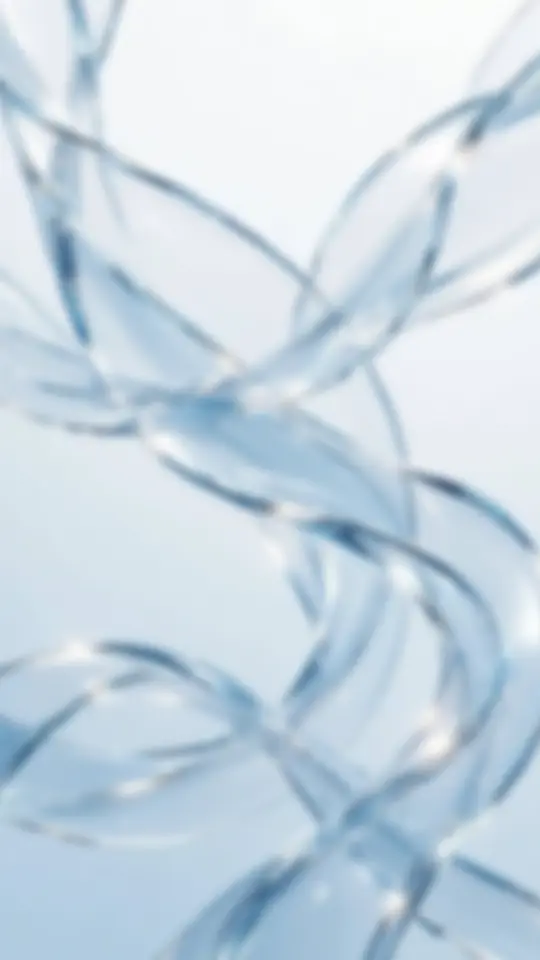
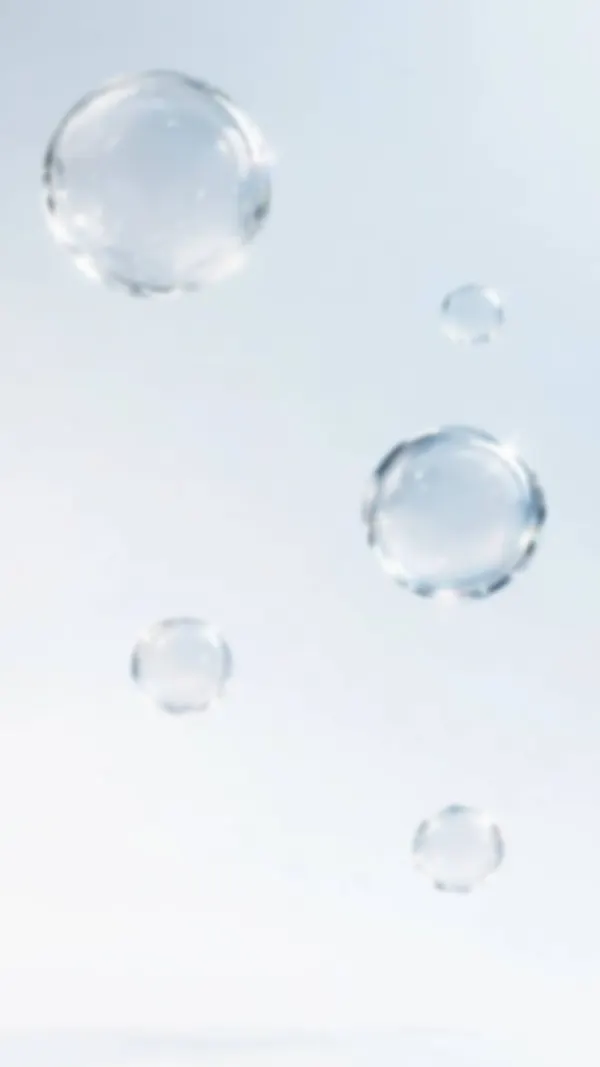
Fondos de burbujas de cristal (claro y oscuro), con desenfoque leve
Reemplaza los fondos anteriores por las imágenes de burbujas provistas,
levemente desenfocadas y reducidas (6-8 KB). Velo más liviano porque los
fondos son más calmados; en oscuro las tarjetas son algo más opacas.

Claude-Session: https://claude.ai/code/session_01QAkKZAx5AMTorTfvBu3av9

diff --git a/index.html b/index.html
@@ -529,8 +529,9 @@ input[type=checkbox]:checked::after{transform:translateX(20px)}
 
 /* ═══════════ Fondos de cristal (imagen desenfocada + velo para que el texto se lea) ═══════════ */
 body,:root[data-theme="light"] body{background:transparent!important}
-:root[data-theme="light"]::before{background:linear-gradient(180deg,rgba(247,251,255,.34),rgba(240,247,253,.22)),url(icons/bg-claro.webp) center/cover no-repeat}
-:root[data-theme="dark"]::before{background:linear-gradient(180deg,rgba(4,9,22,.34),rgba(3,7,18,.26)),url(icons/bg-oscuro.webp) center/cover no-repeat}
+:root[data-theme="dark"]{--glass-bg:rgba(14,25,52,.72)}
+:root[data-theme="light"]::before{background:linear-gradient(180deg,rgba(247,251,255,.16),rgba(240,247,253,.08)),url(icons/bg-claro.webp) center/cover no-repeat}
+:root[data-theme="dark"]::before{background:linear-gradient(180deg,rgba(4,9,22,.26),rgba(3,7,18,.2)),url(icons/bg-oscuro.webp) center/cover no-repeat}
 </style>
 </head>
 <body>
@@ -3207,7 +3208,7 @@ async function borrarJornadaActualDrive(){
 }
 
 // ── VERSIÓN (se ve en Configuración para saber qué versión está cargada)
-const APP_VERSION='2026-10-11 · t';
+const APP_VERSION='2026-10-11 · u';
 document.getElementById('appVersion').textContent='Versión '+APP_VERSION;
 
 // ── iPhone (app instalada): la altura automática a veces no llega al borde inferior
